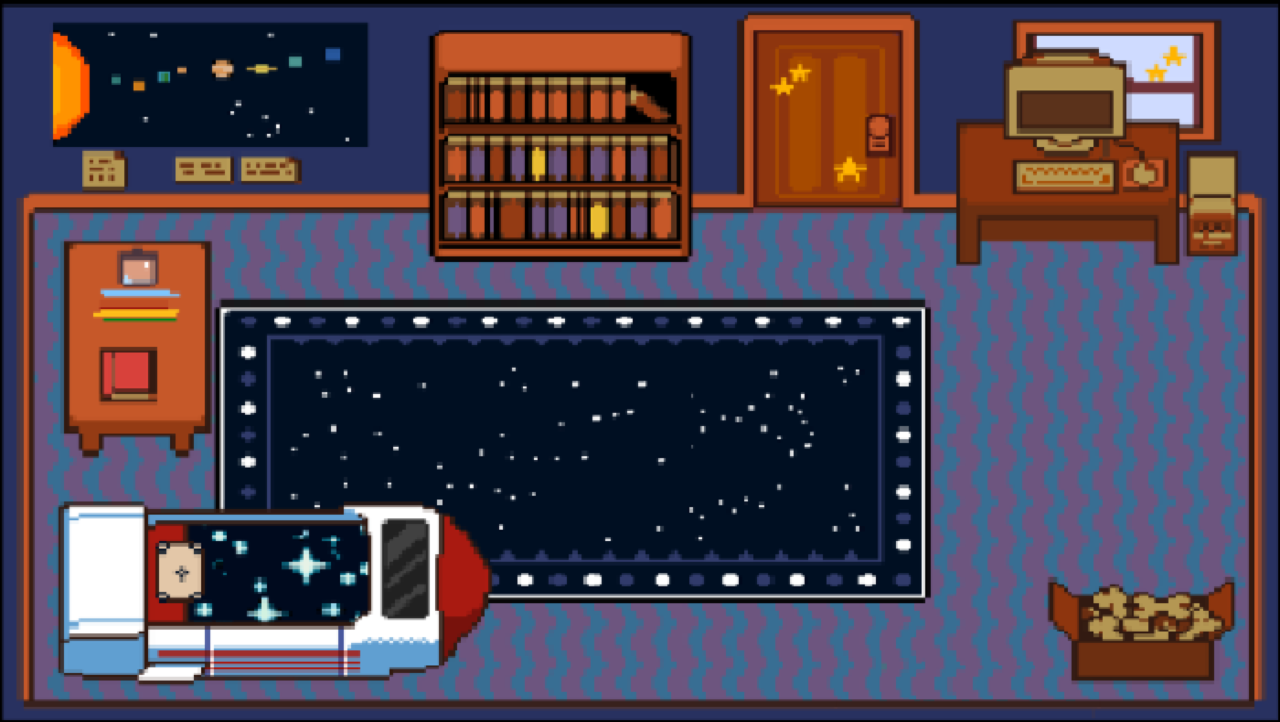
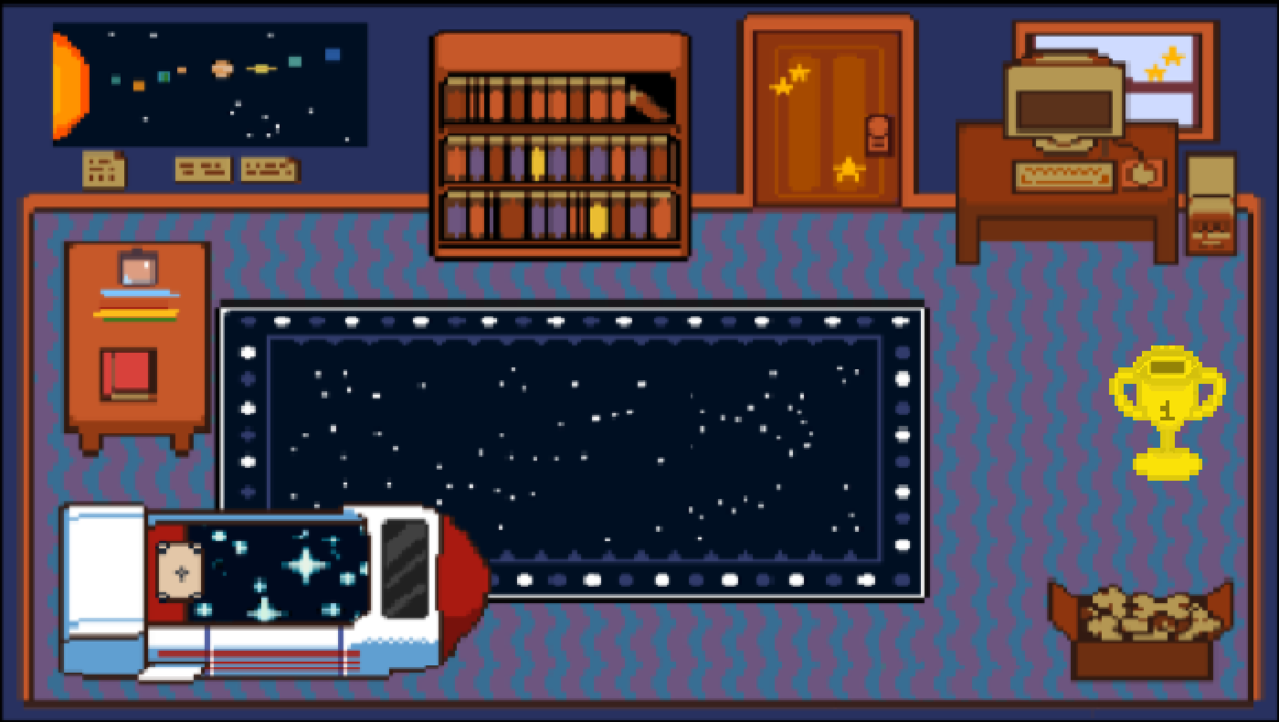
Feat(login):회원가입 수정 및 로그인 css 추가 그리고 canvas에서 로그아웃 기능 추가

diff --git a/dailynovel-vue/src/components/member/Canvas.vue b/dailynovel-vue/src/components/member/Canvas.vue
@@ -18,10 +18,13 @@
 </template>
 
 <script>
+import { useUserDetailsStore } from "../store/useUserDetailsStore";
 import Slime from "./Canvas/item/slime.js";
 import Background from "./Canvas/item/background.js";
 import Obstacle from "./Canvas/item/obstacle.js";
 import Dialog from "./Canvas/item/dialog.js";
+import { useRouter } from "vue-router";
+
 
 export default {
   data() {
@@ -75,7 +78,7 @@ export default {
       // 컴퓨터
       this.obstacles.push(new Obstacle(958, 203, 300, 60, "computer"));
       // 상단벽
-      this.obstacles.push(new Obstacle(0, 0, 1280, 180,"wall"));
+      this.obstacles.push(new Obstacle(0, 0, 300, 180,"wall"));
 
       this.obstacles.push(new Obstacle(0, 0, 5, 720,));
       this.obstacles.push(new Obstacle(0, 720, 1280, 5));
@@ -124,25 +127,25 @@ export default {
           // 충돌하는 객체에 따라 대화 상자 표시
           if (obstacle.type === "table") {
             this.dialog.setPosition(dialogX, dialogY);
-            this.dialog.setText("일기를 쓰러\n가볼까요?\n(y)");
+            this.dialog.setText("일기를 쓰러\n가볼까요?(y)");
             this.dialog.show();
           } else if (obstacle.type === "shelf") {
             this.dialog.setPosition(dialogX, dialogY);
-            this.dialog.setText("일기장을 보려\n가볼까요?\n(y)");
+            this.dialog.setText("일기장을 보러\n가볼까요?(y)");
             this.dialog.show();
           } else if (obstacle.type === "computer") {
             this.dialog.setPosition(dialogX, dialogY);
-            this.dialog.setText("다른 사람의 일기를 보러\n가볼까요?\n(y)");
+            this.dialog.setText("다른 사람의 일기를 보러\n가볼까요?(y)");
             this.dialog.show();
           } 
           else if (obstacle.type === "wall") {
             this.dialog.setPosition(dialogX, dialogY);
-            this.dialog.setText("구독 페이지를\n 보러 가볼까요?\n(y)");
+            this.dialog.setText("구독 페이지를\n 보러 가볼까요?(y)");
             this.dialog.show();
           } 
           else if (obstacle.type === "trophy") {
             this.dialog.setPosition(dialogX, dialogY);
-            this.dialog.setText("내 업적을 확인하러\n가볼까요?\n(y)");
+            this.dialog.setText("내 업적을 확인하러\n가볼까요?(y)");
             this.dialog.show();
           } 
           else {
@@ -167,24 +170,37 @@ export default {
           const dialogY = this.slime.y - this.slime.sh / 2 - 100;
 
           // 충돌하는 객체에 따라 대화 상자 표시
+
           if (obstacle.type === "table") {
             this.dialog.setPosition(dialogX, dialogY);
-            this.dialog.setText("책상과 충돌했습니다.");
+            this.dialog.setText("책상과 \n충돌했습니다.");
             this.dialog.show();
           } else if (obstacle.type === "shelf") {
             this.dialog.setPosition(dialogX, dialogY);
-            this.dialog.setText("책장과 충돌했습니다.");
+            this.dialog.setText("책장과\n 충돌했습니다.");
             this.dialog.show();
           } else if (obstacle.type === "computer") {
             this.dialog.setPosition(dialogX, dialogY);
-            this.dialog.setText("컴퓨터와 충돌했습니다.");
+            this.dialog.setText("컴퓨터 책상과\n 충돌했습니다.");
             this.dialog.show();
-          } else {
+          } 
+          else if (obstacle.type === "wall") {
             this.dialog.setPosition(dialogX, dialogY);
-            this.dialog.setText(`벽이랑\n 충돌했습니다.`);
+            this.dialog.setText("구독 페이지를\n 보러 가볼까요?(y)");
+            this.dialog.show();
+          } 
+          else if (obstacle.type === "trophy") {
+            this.dialog.setPosition(dialogX, dialogY);
+            this.dialog.setText("트로피와 \n부딪혔습니다.");
+            this.dialog.show();
+          } 
+          else {
+            this.dialog.setPosition(dialogX, dialogY);
+            this.dialog.setText(`벽과\n 충돌했습니다.`);
             this.dialog.show();
           }
         }
+        
         if (!collisionDetected) {
           // 충돌이 없을 때의 대화 상자 숨기기
           this.dialog.hide();
@@ -208,7 +224,7 @@ export default {
 
       return (
         rect1.x < rect2.x + rect2.width + 20 &&
-    rect1.x + rect1.width > rect2.x &&
+    rect1.x + rect1.width > rect2.x -20&&
     rect1.y < rect2.y + rect2.height + 20 &&
     rect1.y + rect1.height > rect2.y
       );
@@ -275,7 +291,9 @@ export default {
       // 침대 -> 로그아웃
       else if (435 <= canvasX && 205 <= canvasY && canvasX <= 680 && canvasY < 255) {
         // 로그아웃 로직 추가
-        console.log("로그아웃");
+        let userDetail = useUserDetailsStore();
+      userDetail.logout();
+      this.$router.push("/login");
       }
       // 추가적인 클릭 이벤트 처리 가능
 
@@ -294,8 +312,13 @@ export default {
     },
     keyDownHandler(e) {
   if (e.key === "y") {
+    if((152<=this.slime.x&& 522<=this.slime.y) &&(this.slime.x<=337&& this.slime.y<=627 ) ){
+      console.log("눌렸다!")
+      let userDetail = useUserDetailsStore();
+      userDetail.logout();
+      this.$router.push("/login");
+    }
     const obstacle = this.obstacles.find(obstacle => this.isWithinDistance(this.slime, obstacle));
-
     if (obstacle) {
       console.log("충돌이 감지되었습니다.");
       
@@ -327,7 +350,6 @@ export default {
 
       else {
         console.log("알 수 없는 객체와 충돌했습니다.");
-        this.$router.push("/default-route"); // 기본적인 충돌 시의 라우터 경로로 변경
       }
     }
   }

diff --git a/dailynovel-vue/src/components/user/SignUp.vue b/dailynovel-vue/src/components/user/SignUp.vue
@@ -51,22 +51,29 @@ async function showHandler(event) {
       // 예외 처리: 예상하지 못한 응답 형식이나 오류 처리
       content.value = "응답을 처리할 수 없습니다.";
     }
-  } else if (event == "이메일") {
-    let response = await fetch(
-      "http://localhost:8080/users/emailCheck?email=" + email.value
-    );
+  } else if (event === "이메일") {
+  content.value = "이메일 확인 중..."; // 로딩 표시기 표시
+
+  try {
+    let response = await fetch("http://localhost:8080/users/emailCheck?email=" + email.value);
     let data = await response.text();
 
-    if (data === "true") {
-      content.value = "발송된 인증번호를 확인해주세요";
-      emailBtn.value = true;
-    } else if (data === "false") {
-      content.value = "이미 가입된 이메일입니다.";
-    } else {
-      // 예외 처리: 예상하지 못한 응답 형식이나 오류 처리
-      content.value = "이메일을 다시 확인해주세요";
-    }
-  } else if (event == "이메일인증번호확인") {
+    // 최소한 1초간 로딩 메시지를 표시하기 위해 setTimeout 사용
+    setTimeout(() => {
+      if (data === "true") {
+        content.value = "발송된 인증번호를 확인해주세요";
+        emailBtn.value = true;
+      } else if (data === "false") {
+        content.value = "이미 가입된 이메일입니다.";
+      } else {
+        // 예외 처리: 예상하지 못한 응답 형식이나 오류 처리
+        content.value = "이메일을 다시 확인해주세요";
+      }
+    }, 1000); // 1초 (1000ms) 지연
+  } catch (error) {
+    content.value = "요청 중 오류가 발생했습니다.";
+  }
+} else if (event == "이메일인증번호확인") {
     let response = await fetch(
       "http://localhost:8080/users/emailCheckNum?email=" +
         email.value +
@@ -86,8 +93,10 @@ async function showHandler(event) {
       content.value = "응답을 처리할 수 없습니다.";
     }
   } else if(event == "회원가입") {
-    let date = new Date(birthYear.value, birthMonth.value - 1, birthDay.value + 1);
+    let date = new Date(birthYear.value, birthMonth.value - 1, birthDay.value);
+    date.setDate(date.getDate() + 1);
     let dateString = date.toISOString().split("T")[0];
+    console.log(dateString);
     await fetch("http://localhost:8080/users/signup", {
       method: "POST",
       headers: {
@@ -104,15 +113,19 @@ async function showHandler(event) {
       }),
     })
       .then((response) => response.text())
+
       .then((data) => {
+        console.log(data)
+        if(data ==="true"){
         // 응답 처리
         content.value = "회원가입에 성공했습니다.";
-        router.path("/member/room");
-      })
-      .catch((error) => {
-        // 에러 처리
+        }
+        else if(data ==="false")
         content.value = "회원가입에 실패했습니다 빠진 정보를 확인해주세요.";
-      });
+        else
+        content.value = "서버에 문제가 있습니다 잠시후 시도해주세요";
+
+      })
   }
 
   showModal.value = true;
@@ -168,6 +181,13 @@ async function updateInput(event) {
       emailBtn.value = false;
     }
   }
+}
+
+function limitInput(inputValue, maxLength) {
+  if (inputValue) {
+    return inputValue.toString().slice(0, maxLength);
+  }
+  return '';
 }
 </script>
 <template>
@@ -367,6 +387,7 @@ async function updateInput(event) {
                 placeholder="닉네임을 입력해주세요"
                 required
                 v-model="nickName"
+                maxlength='8'
                 @input="nickNameVerify()"
               />
             </div>
@@ -400,6 +421,7 @@ async function updateInput(event) {
                 tabindex="0"
                 placeholder="숫자만 입력해주세요"
                 required
+                maxlength='13'
                 v-model="phoneNumber"
               />
             </div>
@@ -421,6 +443,7 @@ async function updateInput(event) {
                 placeholder="YYYY"
                 required
                 v-model="birthYear"
+                @input="birthYear = limitInput(birthYear,4)"
               />
               <span class="birth-deco"> </span>
               <input
@@ -432,6 +455,7 @@ async function updateInput(event) {
                 placeholder="MM"
                 required
                 v-model="birthMonth"
+                @input="birthMonth = limitInput(birthMonth,2)"
               />
               <span class="birth-deco"> </span>
               <input
@@ -443,6 +467,7 @@ async function updateInput(event) {
                 placeholder="DD"
                 required
                 v-model="birthDay"
+                @input="birthDay = limitInput(birthDay,2)"
               />
             </div>
           </div>
@@ -661,9 +686,9 @@ async function updateInput(event) {
   background: rgb(235, 155, 56); /* 선택 시 원하는 배경색을 지정하세요 */
 }
 
-.input-1-noborder input[type="radio"]:checked + label {
-  color: rgb(235, 155, 56); /* 선택 시 원하는 텍스트 색상을 지정하세요 */
-}
+/* .input-1-noborder input[type="radio"]:checked + label {
+  color: rgb(235, 155, 56); /* 선택 시 원하는 텍스트 색상을 지정하세요 
+} */
 
 .input-1-ok {
   width: 360px;
@@ -738,10 +763,11 @@ async function updateInput(event) {
 }
 
 .color-green {
-  color: greenyellow;
+  color:rgb(4, 211, 38);
+
 }
 
 .color-yellow {
-  color: yellow;
+  color:rgb(225, 144, 45);
 }
 </style>

diff --git a/dailynovel-vue/src/components/user/Login.vue b/dailynovel-vue/src/components/user/Login.vue
@@ -273,17 +273,18 @@ async function FindSignupUser(event) {
       <div class="main-svg" />
       <div class="form">
         <form method="post" enctype="application/x-www-form-urlencoded">
-          <div class="mgt-4" v-if="loginFalse">
-            <span>이메일과 비밀번호를 확인해주세요</span>
+          <div class="mgt-1 mgl-5" v-if="loginFalse">
+            <span style="color: rgb(220, 0, 0);">계정 및 암호를 확인해주세요</span>
+
           </div>
           <div class="input3 mgt-4">
             <div class="div-placeholder">
-              <input id="email" class="text04" type="text" tabindex="0" placeholder="이메일" required v-model="user.email" />
+              <input id="email" class="text04 mgl-2" type="text" tabindex="0" placeholder="이메일" required v-model="user.email" />
             </div>
           </div>
-          <div class="input3">
+          <div class="input3 mgt-2">
             <div class="div-placeholder mgt-1">
-              <input id="password" class="text04" type="password" placeholder="비밀번호" required v-model="user.password" />
+              <input id="password" class="text04 mgl-2" type="password" placeholder="비밀번호" required v-model="user.password" />
             </div>
           </div>
           <button class="button1 mgt-3" @click.prevent="loginHandler">
@@ -296,7 +297,7 @@ async function FindSignupUser(event) {
           </div>
         </div>
       </div>
-      <div class="mgt-5">
+      <div class="mgt-6">
         <router-link to="./login" class="text09 mgt-4">SNS계정으로 간편 로그인/회원가입</router-link>
       </div>
       <div class="lc-horizontal-alignment mgt-3">

diff --git a/dailynovel-vue/src/components/user/LoginModal.vue b/dailynovel-vue/src/components/user/LoginModal.vue
@@ -1,10 +1,16 @@
 <script setup>
 import { ref } from 'vue';
+import { useRoute, useRouter } from "vue-router";
+let router = useRouter();
 let props = defineProps({
     content: "",
     show: false,
     type: "conform"
 });
+
+function navigateToMemberRoom(){
+    router.push('/login');
+}
 </script>
 
 <template>
@@ -13,7 +19,10 @@ let props = defineProps({
             <div class="content">
                 {{ content }}
             </div>
-            <button >OK</button>
+            <button v-if="content === '회원가입에 성공했습니다.'" @click="navigateToMemberRoom">로그인 하러가기</button>
+            <button v-else @click="navigateToDefaultRoute">
+        ok
+      </button>
         </section>
     </div>
 </template>

diff --git a/dailynovel-vue/src/components/store/useUserDetailsStore.js b/dailynovel-vue/src/components/store/useUserDetailsStore.js
@@ -21,7 +21,7 @@ export const useUserDetailsStore = defineStore("userDetails", {
             localStorage.removeItem('email');
             localStorage.removeItem('nickname');
             // 로컬 저장소에서 roles 값 제거 (선택적으로 필요한 경우에만 사용)
-            // localStorage.removeItem('roles');
+            localStorage.removeItem('roles');
         },
 
         hasRole(role) {

diff --git a/dailynovel-vue/src/components/member/Canvas/item/slime.js b/dailynovel-vue/src/components/member/Canvas/item/slime.js
@@ -17,7 +17,7 @@ export default class slime{
         this.vx = 0;
         this.vy = 0;
 
-        this.speed = 3;
+        this.speed = 5;
 
         this.walkDelay = 0;
 

diff --git a/dailynovel-api/src/main/java/com/dailynovel/dailynovelapi/controller/UserController.java b/dailynovel-api/src/main/java/com/dailynovel/dailynovelapi/controller/UserController.java
@@ -44,6 +44,7 @@ public class UserController {
 	
 	
 		boolean result = service.signup(member);
+	System.out.println(result+"회원가입 결과");
 		return result;
 	}
 
